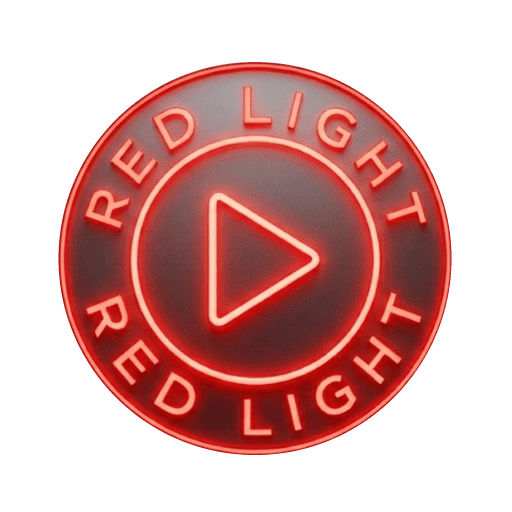
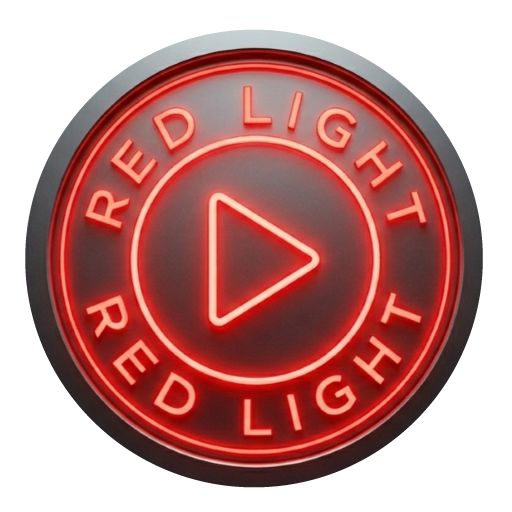
v1.9.1
Browse fixes - see changelog.

Changed region(s): [[0.0312, 0.0312, 0.9688, 0.9688]]

diff --git a/plugin.video.redlight/resources/lib/modules/sources.py b/plugin.video.redlight/resources/lib/modules/sources.py
@@ -16,6 +16,10 @@ from modules.utils import clean_file_name, string_to_float, safe_string, remove_
 
 PROP_SOURCES_BUSY = 'redlight.sources_busy'
 PROP_SOURCES_OWNER = 'redlight.sources_busy_owner'
+PROP_SOURCES_BUSY_AT = 'redlight.sources_busy_at'
+# Live scrapes refresh the heartbeat every loop pass; anything older than this with no
+# playback means the owning scrape died (e.g. Browse flow killed mid-wait) — clear it.
+SOURCES_BUSY_STALE_SECONDS = 120
 PROP_RESOLVE_BUSY = 'redlight.resolve_busy'
 PROP_RESOLVE_OWNER = 'redlight.resolve_busy_owner'
 PROP_RESOLVE_CANCEL = 'redlight.resolve_cancelled'
@@ -465,6 +469,7 @@ class Sources():
 			self._sources_busy_owner = str(id(self))
 			kodi_utils.set_property(PROP_SOURCES_BUSY, 'true')
 			kodi_utils.set_property(PROP_SOURCES_OWNER, self._sources_busy_owner)
+			self._touch_sources_busy()
 		self._get_sources_depth = depth + 1
 		try:
 			if depth == 0:
@@ -578,6 +583,7 @@ class Sources():
 
 	def process_results(self, results):
 		if not results: return results
+		self._touch_sources_busy()
 		results = self.sort_results(results)
 		min_seeders = settings.uncached_min_seeders()
 		all_uncached_results = [i for i in results if 'Uncached' in i.get('cache_provider', '')]
@@ -1076,6 +1082,7 @@ class Sources():
 			start_time = time.time()
 			while not self.progress_dialog.iscanceled() and not monitor.abortRequested():
 				try:
+					self._touch_sources_busy()
 					remaining_providers = [x.getName() for x in _threads if x.is_alive() is True]
 					self._process_internal_results()
 					current_progress = max((time.time() - start_time), 0)
@@ -1125,10 +1132,12 @@ class Sources():
 		self._sources_busy_owner = str(id(self))
 		kodi_utils.set_property(PROP_SOURCES_BUSY, 'true')
 		kodi_utils.set_property(PROP_SOURCES_OWNER, self._sources_busy_owner)
+		self._touch_sources_busy()
 		return True
 
 	def display_results(self, results):
 		while True:
+			self._touch_sources_busy()
 			window_format, window_number = settings.results_format()
 			window_result = open_window(('windows.sources', 'SourcesResults'), 'sources_results.xml',
 					window_format=window_format, window_id=window_number, results=results, meta=self.meta, sources_ref=self, episode_group_label=self.episode_group_label,
@@ -1311,7 +1320,7 @@ class Sources():
 		return self._process_post_results()
 
 	def _close_progress_before_modal(self):
-		self._kill_progress_dialog(join_timeout=3.0)
+		self._kill_progress_dialog(join_timeout=3.0, close_overlays=False)
 		kodi_utils.hide_busy_dialog()
 		if self.progress_thread and self.progress_thread.is_alive():
 			try:
@@ -1647,6 +1656,11 @@ class Sources():
 		if kodi_utils.get_property(PROP_SOURCES_OWNER) == getattr(self, '_sources_busy_owner', ''):
 			kodi_utils.clear_property(PROP_SOURCES_BUSY)
 			kodi_utils.clear_property(PROP_SOURCES_OWNER)
+			kodi_utils.clear_property(PROP_SOURCES_BUSY_AT)
+
+	def _touch_sources_busy(self):
+		if kodi_utils.get_property(PROP_SOURCES_BUSY) == 'true':
+			kodi_utils.set_property(PROP_SOURCES_BUSY_AT, str(time.time()))
 
 	def _release_resolve_busy(self):
 		if kodi_utils.get_property(PROP_RESOLVE_OWNER) == getattr(self, '_resolve_busy_owner', ''):
@@ -1669,17 +1683,32 @@ class Sources():
 		return True
 
 	def _clear_stale_sources_busy(self):
+		def _clear():
+			kodi_utils.clear_property(PROP_SOURCES_BUSY)
+			kodi_utils.clear_property(PROP_SOURCES_OWNER)
+			kodi_utils.clear_property(PROP_SOURCES_BUSY_AT)
 		if kodi_utils.get_property(PROP_SOURCES_BUSY) != 'true':
 			return False
 		# Browse closes the results window under playback while get_sources may still be
 		# waiting — clear so a new scrape is not blocked until restart.
 		try:
 			if kodi_utils.kodi_player().isPlayingVideo():
-				kodi_utils.clear_property(PROP_SOURCES_BUSY)
-				kodi_utils.clear_property(PROP_SOURCES_OWNER)
+				_clear()
 				return True
 		except:
 			pass
+		# No playback and no recent heartbeat — the owning scrape is dead (killed invoker,
+		# hung Browse wait, crash before release). Never require a Kodi restart.
+		try: busy_at = float(kodi_utils.get_property(PROP_SOURCES_BUSY_AT) or 0)
+		except: busy_at = 0
+		if time.time() - busy_at > SOURCES_BUSY_STALE_SECONDS:
+			try:
+				age = ('%ss' % int(time.time() - busy_at)) if busy_at else 'none'
+				kodi_utils.logger('Red Light', 'Cleared stale sources_busy lock (heartbeat age: %s)' % age)
+			except:
+				pass
+			_clear()
+			return True
 		return False
 
 	def _claim_resolve_busy(self):
@@ -1913,7 +1942,10 @@ class Sources():
 			except:
 				pass
 
-	def _kill_progress_dialog(self, join_timeout=3.0, resolve_cancel=False):
+	def _kill_progress_dialog(self, join_timeout=3.0, resolve_cancel=False, close_overlays=True):
+		# close_overlays=False: caller only needs the progress dialog gone while the sources
+		# results window must stay alive (e.g. Browse opens a modal over it) — the overlay
+		# force-close below also kills sources_results.xml.
 		try:
 			if self.progress_dialog:
 				self.progress_dialog.is_canceled = True
@@ -1926,12 +1958,13 @@ class Sources():
 				thread.join(timeout=join_timeout)
 			except:
 				pass
-			if thread.is_alive() and not resolve_cancel and kodi_utils.get_property(PROP_RESOLVE_BUSY) != 'true':
+			if thread.is_alive() and close_overlays and not resolve_cancel and kodi_utils.get_property(PROP_RESOLVE_BUSY) != 'true':
 				try:
 					kodi_utils.close_all_dialog()
 				except:
 					pass
-		self._force_close_sources_overlay_windows()
+		if close_overlays:
+			self._force_close_sources_overlay_windows()
 		self.progress_dialog, self.progress_thread = None, None
 		kodi_utils.hide_busy_dialog()
 
@@ -2141,6 +2174,7 @@ class Sources():
 				try:
 					if self._resolve_user_cancelled or self.cancel_all_playback:
 						break
+					self._touch_sources_busy()
 					kodi_utils.hide_busy_dialog()
 					if not self.progress_dialog:
 						if self._user_cancelled_resolve():